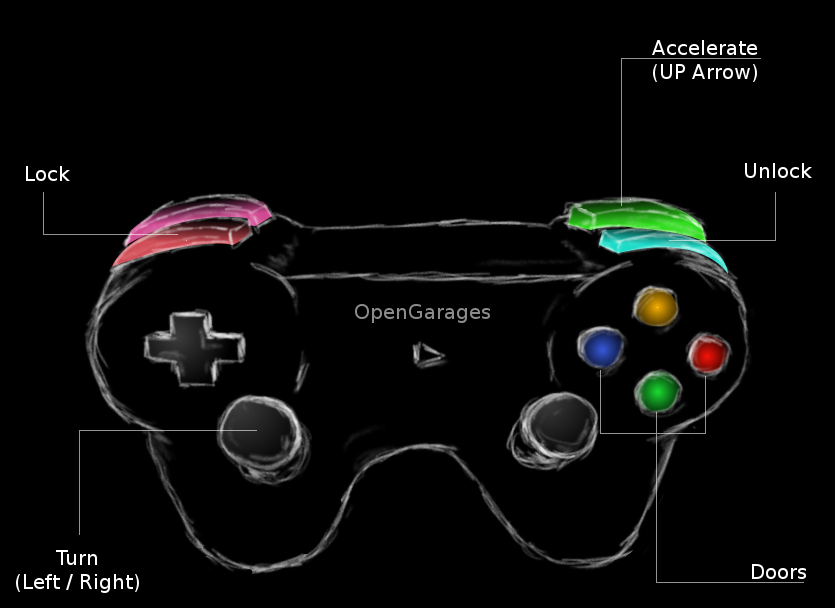
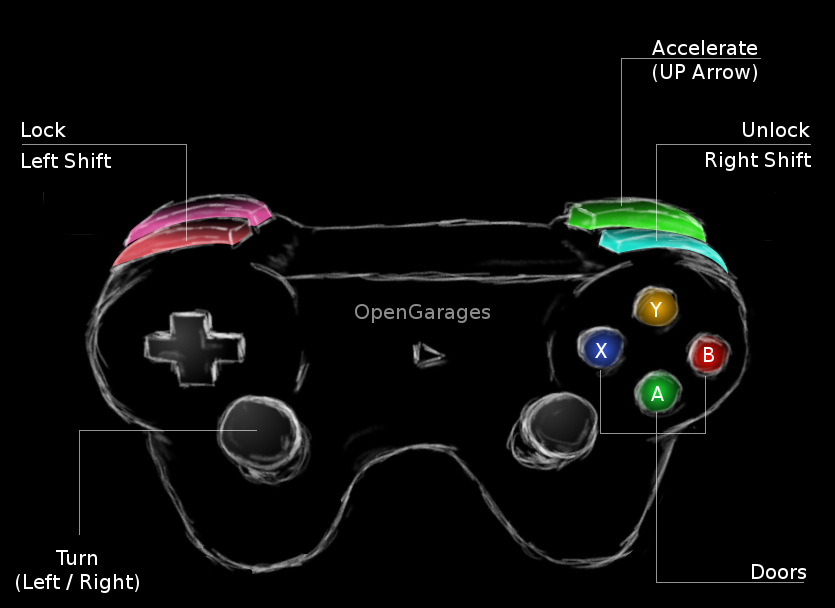
Finished adding keyboard equiv of joystick commands for Door controls.

diff --git a/controls.c b/controls.c
@@ -462,6 +462,42 @@ int main(int argc, char *argv[]) {
 		    case SDLK_RIGHT:
 			turning = 1;
 			break;
+		    case SDLK_LSHIFT:
+			lock_enabled = 1;
+			if(unlock_enabled) send_lock(CAN_DOOR1_LOCK | CAN_DOOR2_LOCK | CAN_DOOR3_LOCK | CAN_DOOR4_LOCK);
+			break;
+		    case SDLK_RSHIFT:
+			unlock_enabled = 1;
+			if(lock_enabled) send_unlock(CAN_DOOR1_LOCK | CAN_DOOR2_LOCK | CAN_DOOR3_LOCK | CAN_DOOR4_LOCK);
+			break;
+		    case SDLK_a:
+			if(lock_enabled) {
+				send_lock(CAN_DOOR1_LOCK);
+			} else if(unlock_enabled) {
+				send_unlock(CAN_DOOR1_LOCK);
+			}
+			break;
+		    case SDLK_b:
+			if(lock_enabled) {
+				send_lock(CAN_DOOR2_LOCK);
+			} else if(unlock_enabled) {
+				send_unlock(CAN_DOOR2_LOCK);
+			}
+			break;
+		    case SDLK_x:
+			if(lock_enabled) {
+				send_lock(CAN_DOOR3_LOCK);
+			} else if(unlock_enabled) {
+				send_unlock(CAN_DOOR3_LOCK);
+			}
+			break;
+		    case SDLK_y:
+			if(lock_enabled) {
+				send_lock(CAN_DOOR4_LOCK);
+			} else if(unlock_enabled) {
+				send_unlock(CAN_DOOR4_LOCK);
+			}
+			break;
 		}
 		kk_check(event.key.keysym.sym);
 	   	break;
@@ -473,6 +509,12 @@ int main(int argc, char *argv[]) {
 		    case SDLK_LEFT:
 		    case SDLK_RIGHT:
 			turning = 0;
+			break;
+		    case SDLK_LSHIFT:
+			lock_enabled = 0;
+			break;
+		    case SDLK_RSHIFT:
+			unlock_enabled = 0;
 			break;
 		}
 		break;
